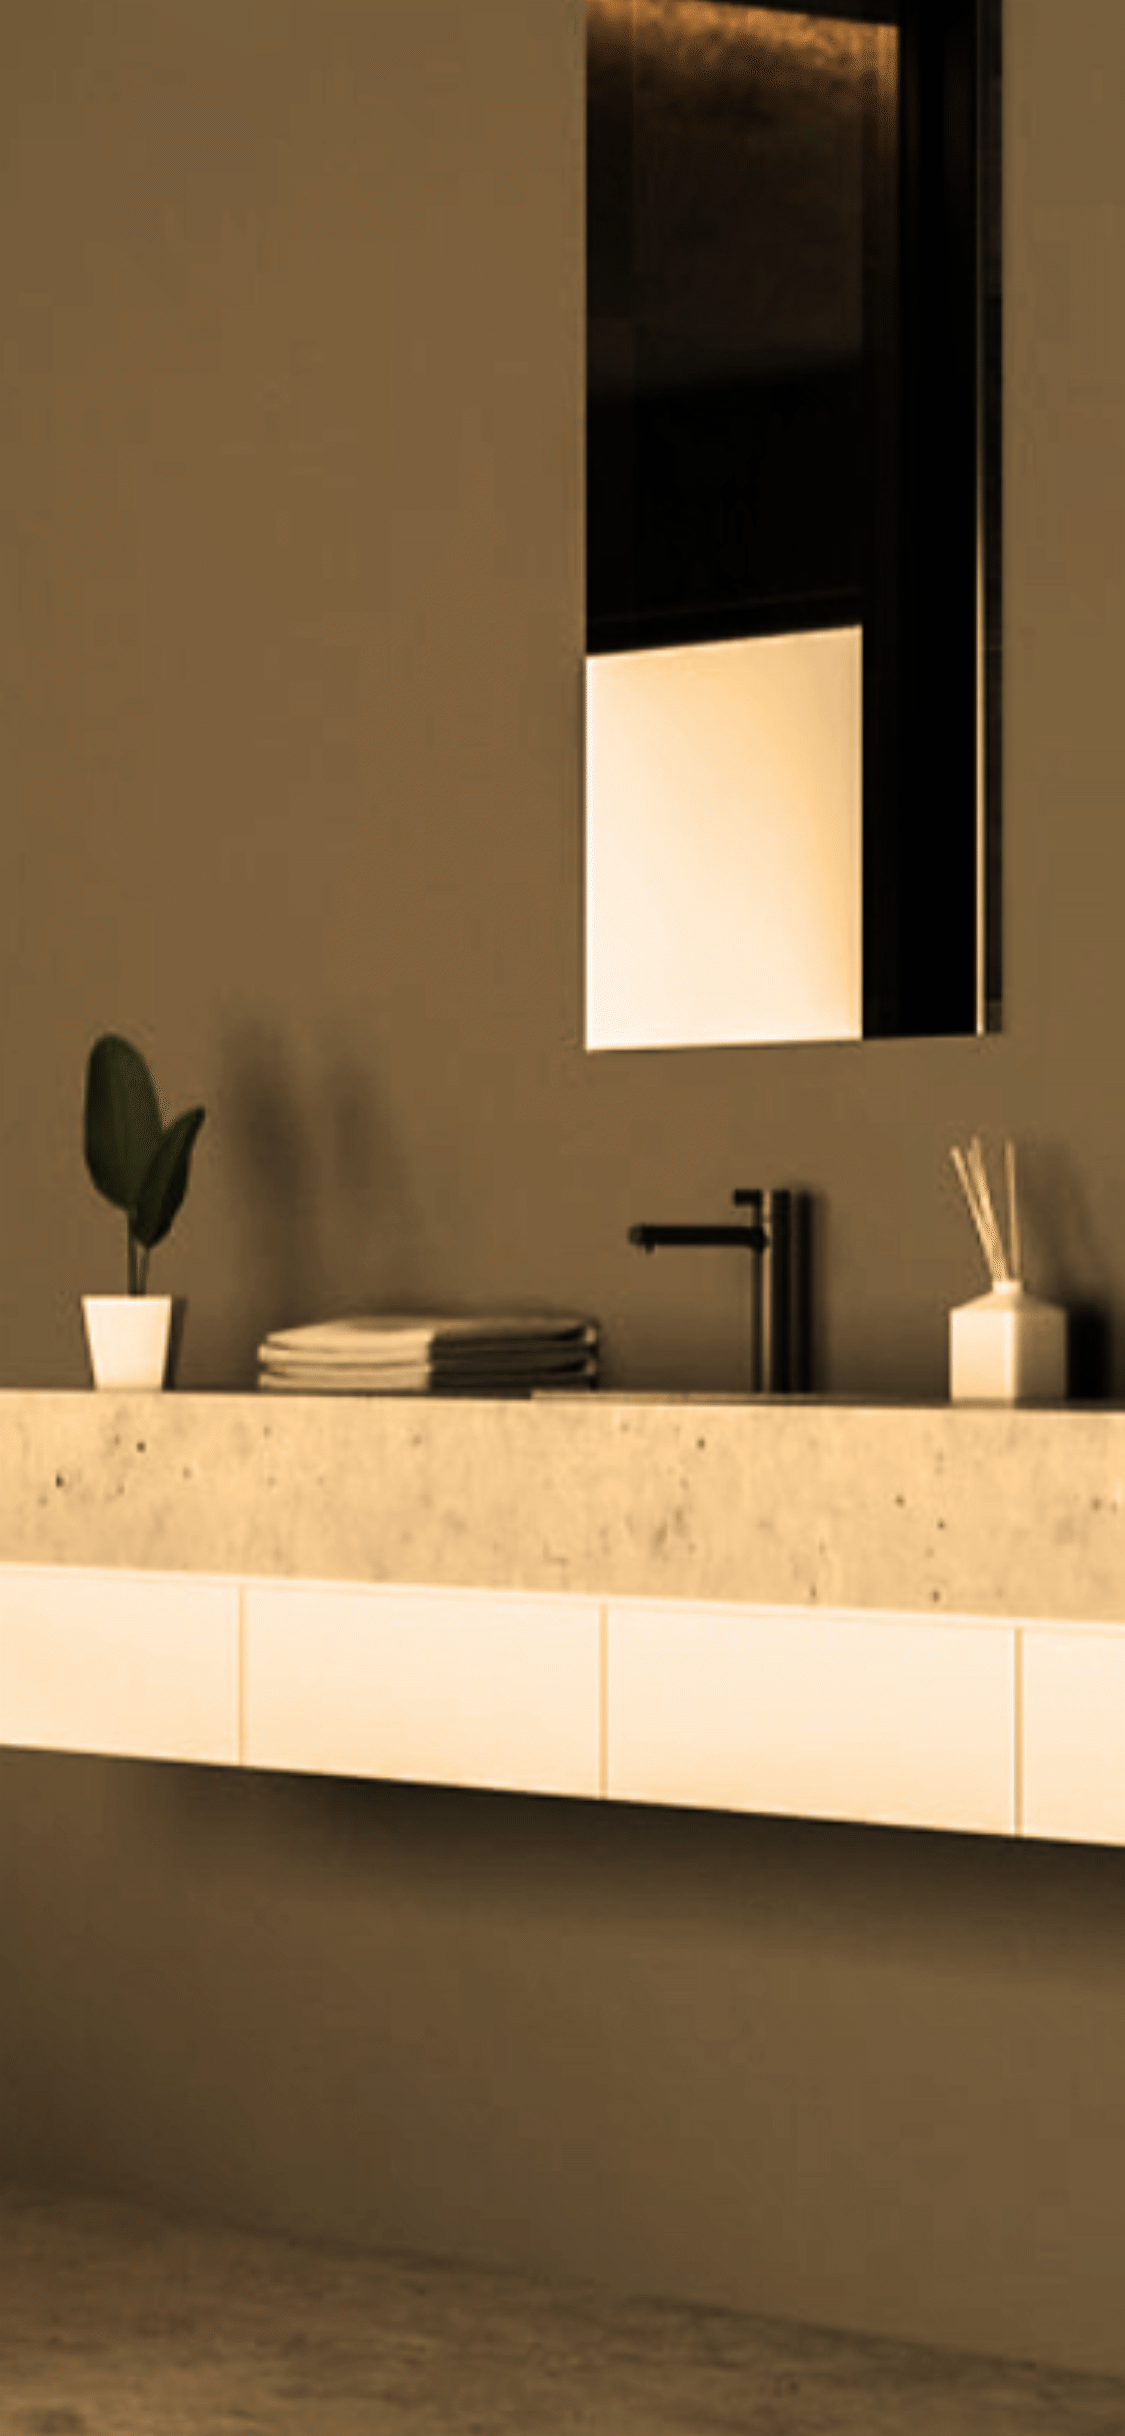
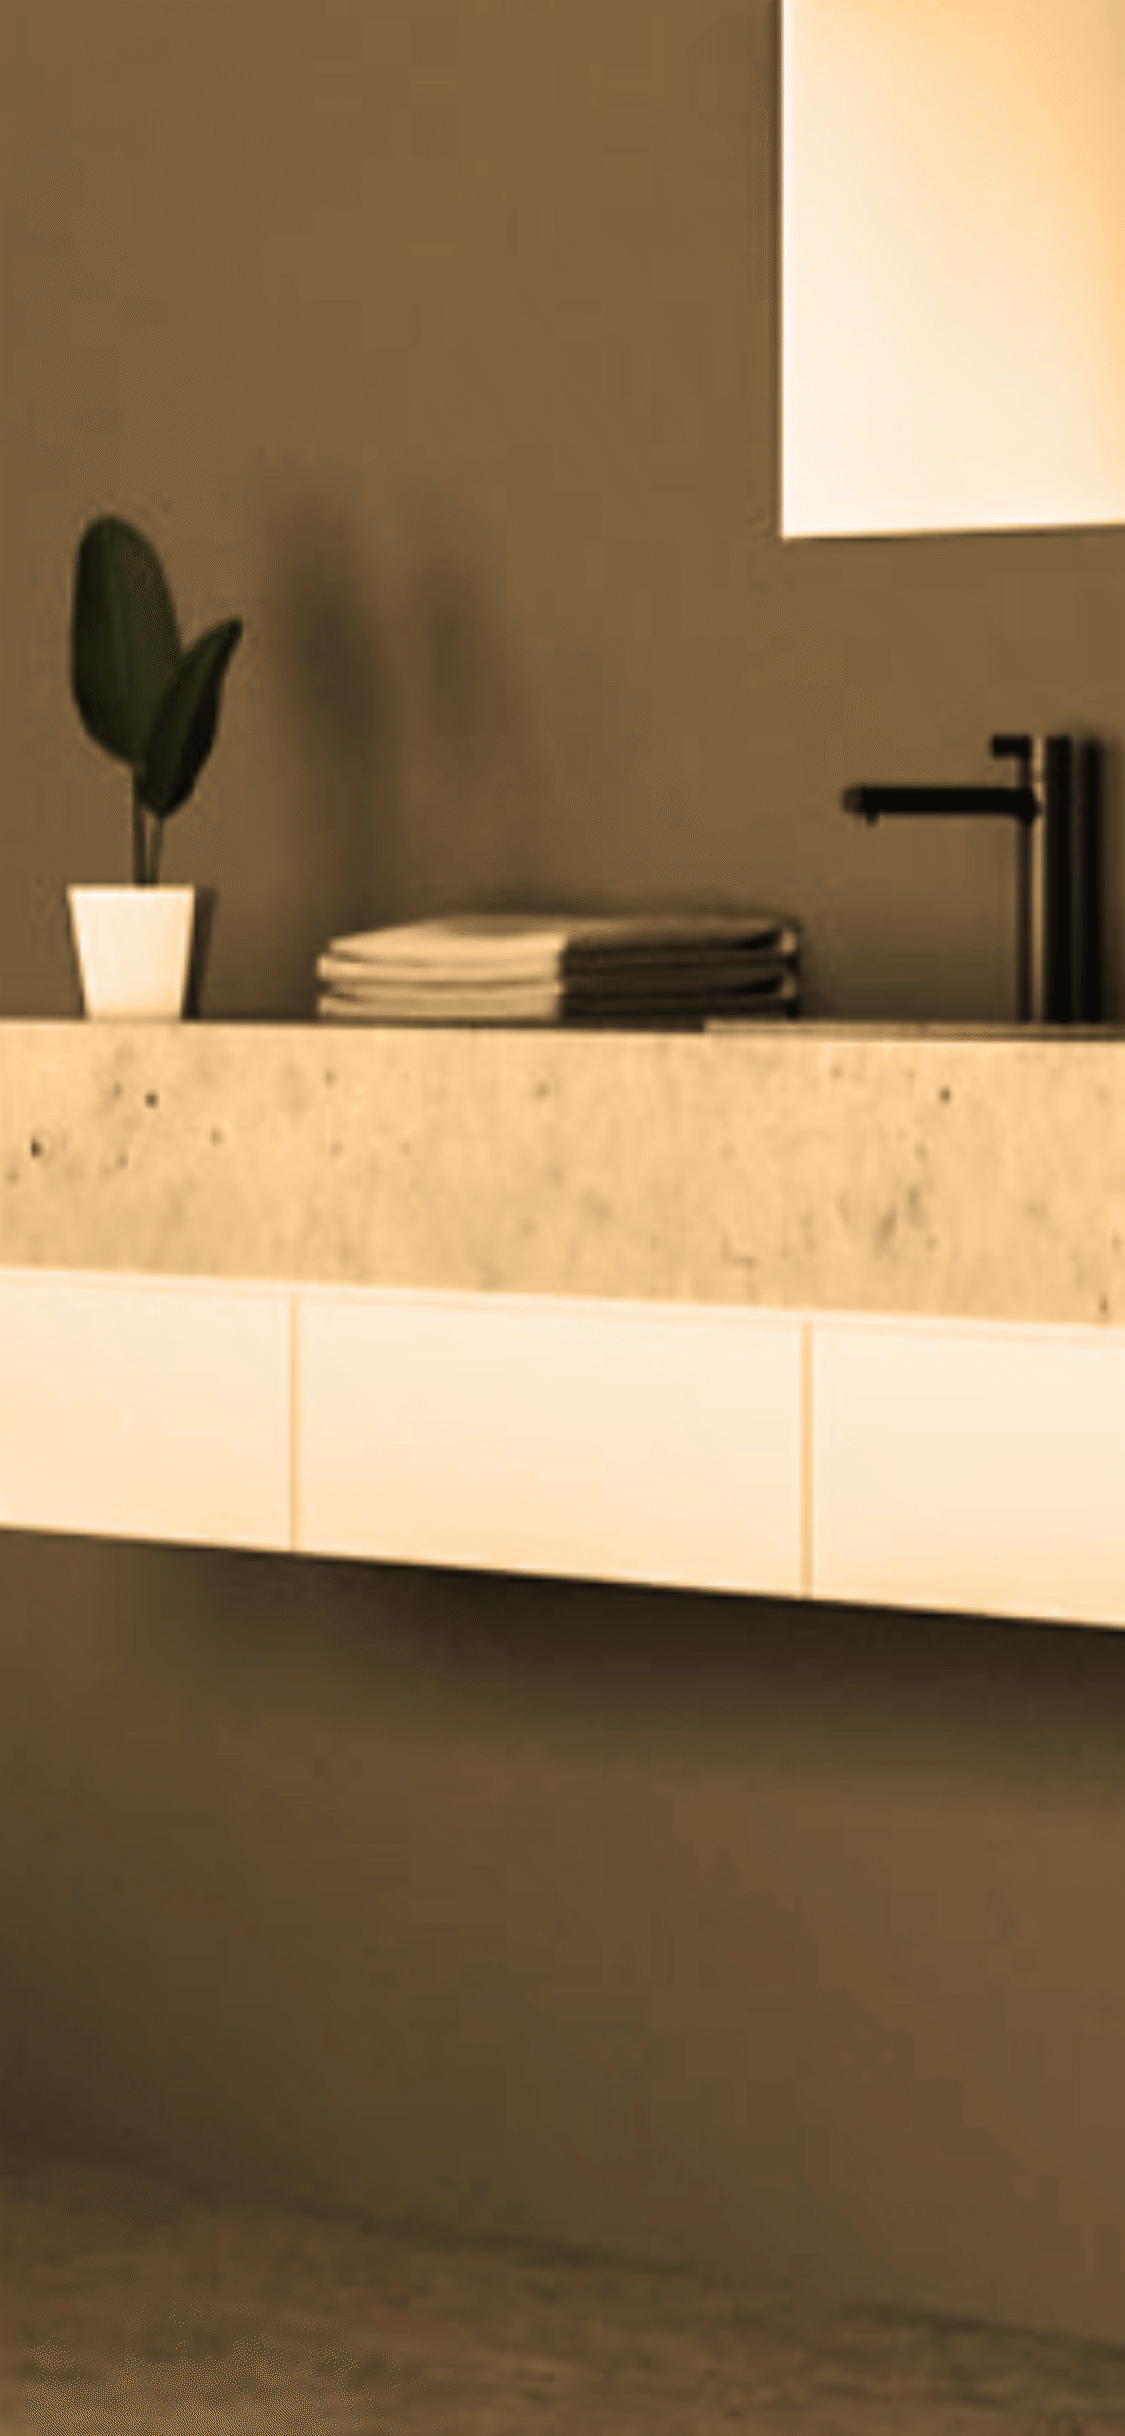
nu background mobile

diff --git a/unit_5/index.html b/unit_5/index.html
@@ -33,7 +33,7 @@
 	cillum dolore eu fugiat nulla pariatur. Excepteur sint occaecat cupidatat non
 	proident, sunt in culpa qui officia deserunt mollit anim id est laborum.</p>
 	<div class="postcontent"> 
-	<div class="bathroom"> <img src="images/backbathroom.jpg"> </div>
+	<div class="bathroom"> <img src="images/newbathroom.jpg"> </div>
 	<div class="stars"> <img src="images/4stars.png">  </div> </div>
 	<hr>
 </div>
